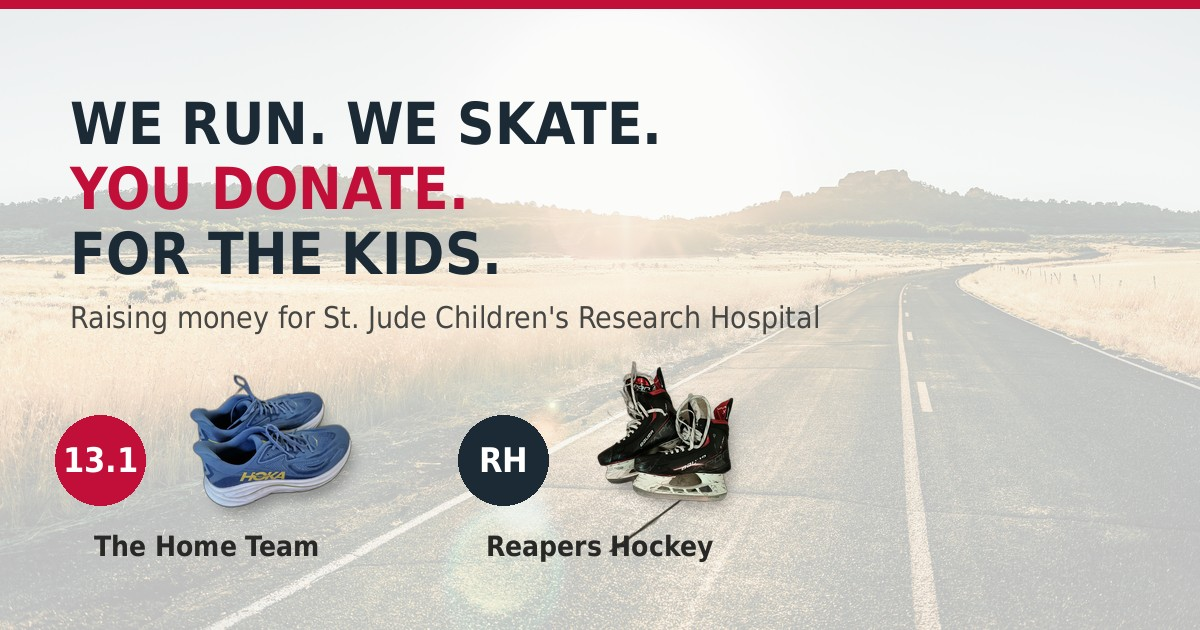
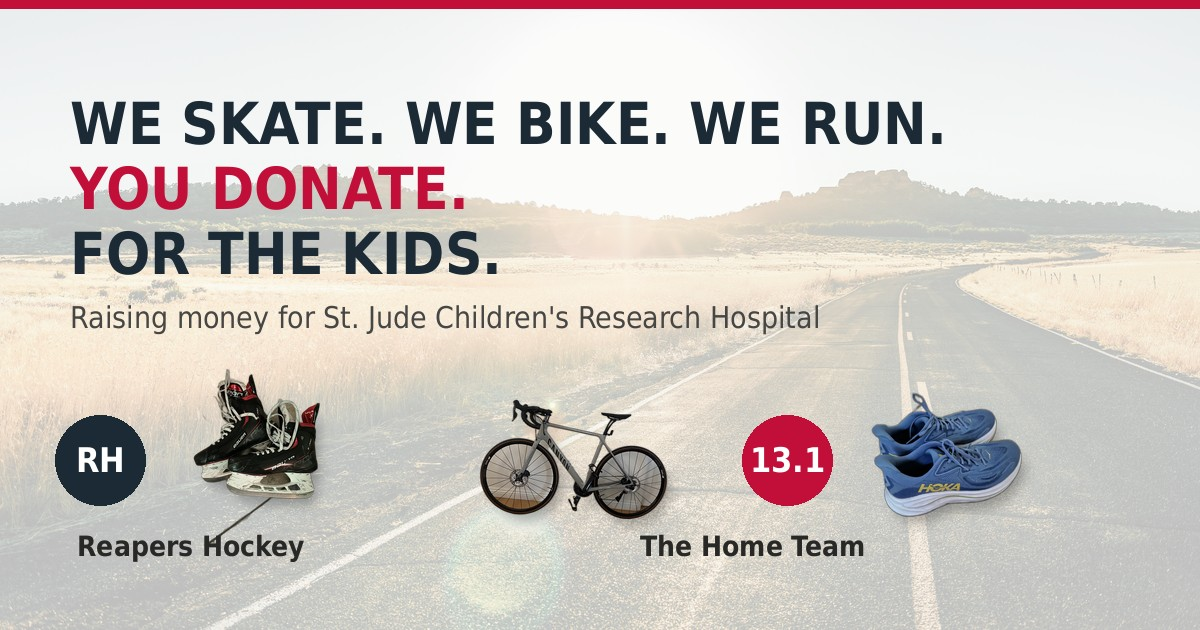
Add files via upload

diff --git a/index.html b/index.html
@@ -284,6 +284,25 @@
     text-align: center;
   }
 
+  .closing {
+    padding: 48px 0 8px;
+    text-align: center;
+  }
+  .closing p {
+    font-size: 18px;
+    color: var(--steel);
+    max-width: 46ch;
+    margin: 0 auto;
+  }
+  .closing .tagline {
+    display: block;
+    margin-top: 6px;
+    font-family: 'Bebas Neue', sans-serif;
+    font-size: 26px;
+    letter-spacing: 0.03em;
+    color: var(--accent);
+  }
+
   @media (max-width: 520px) {
     .avenue, .avenue.large-photo { grid-template-columns: 1fr; }
     .photo { width: 100%; height: 160px; }
@@ -332,6 +351,67 @@
     background: var(--accent);
     border-radius: 999px;
   }
+
+  .equation-row {
+    display: flex;
+    align-items: baseline;
+    flex-wrap: wrap;
+    gap: 10px 14px;
+    margin-bottom: 14px;
+  }
+  .eq-part { display: flex; flex-direction: column; }
+  .eq-value {
+    font-family: 'Bebas Neue', sans-serif;
+    font-size: 26px;
+    color: var(--steel);
+    letter-spacing: 0.02em;
+    line-height: 1;
+  }
+  .eq-label {
+    font-size: 12px;
+    color: var(--muted);
+    text-transform: uppercase;
+    letter-spacing: 0.05em;
+    margin-top: 3px;
+  }
+  .eq-op {
+    font-family: 'Bebas Neue', sans-serif;
+    font-size: 22px;
+    color: var(--steel-mid);
+  }
+  .eq-total .eq-value { color: var(--accent); font-size: 30px; }
+
+  .mile-tracker {
+    grid-column: 1 / -1;
+    margin-top: 18px;
+    padding-top: 16px;
+    border-top: 1px dashed var(--line);
+  }
+  .mile-tracker-label {
+    text-transform: uppercase;
+    letter-spacing: 0.06em;
+    font-size: 12px;
+    color: var(--steel-mid);
+    font-weight: 700;
+    margin: 0 0 6px;
+  }
+  .mile-tracker-numbers {
+    display: flex;
+    align-items: baseline;
+    gap: 10px;
+    flex-wrap: wrap;
+  }
+  .mile-tracker-miles {
+    font-family: 'Bebas Neue', sans-serif;
+    font-size: 30px;
+    color: var(--steel);
+    letter-spacing: 0.02em;
+  }
+  .mile-tracker-miles span { color: var(--accent); }
+  .mile-tracker-detail {
+    font-size: 13px;
+    color: var(--muted);
+  }
 </style>
 </head>
 <body>
@@ -339,17 +419,33 @@
   <div class="wrap">
     <header class="hero">
       <h1>Raising Money for <span style="color: var(--accent);">St. Jude</span></h1>
-      <p class="sub">This January, a half marathon. All season, a hockey team. Same cause: St. Jude — for kids who need St. Jude the most.</p>
+      <p class="sub">This January, a half marathon. All season, a hockey team. Every mile logged. Same cause: St. Jude — for kids who need St. Jude the most.</p>
     </header>
 
-    <section class="progress-section">
+    <section class="progress-section" id="progress-section" data-donations="2425" data-goal="25000">
+      <div class="equation-row" id="equation-row">
+        <span class="eq-part">
+          <span class="eq-value" id="eq-you">$2,425</span>
+          <span class="eq-label">You</span>
+        </span>
+        <span class="eq-op">+</span>
+        <span class="eq-part">
+          <span class="eq-value" id="eq-hometeam">$0</span>
+          <span class="eq-label">Home Team miles</span>
+        </span>
+        <span class="eq-op">=</span>
+        <span class="eq-part eq-total">
+          <span class="eq-value" id="eq-total">$2,425</span>
+          <span class="eq-label">to St. Jude</span>
+        </span>
+      </div>
       <div class="progress-numbers">
-        <span class="progress-raised">$2,425 <span>raised</span></span>
-        <span class="progress-goal">of $25,000 goal</span>
+        <span class="progress-goal" id="progress-goal">of $25,000 goal</span>
       </div>
       <div class="progress-track">
-        <div class="progress-fill" style="width: 9.7%;"></div>
+        <div class="progress-fill" id="progress-fill" style="width: 9.7%;"></div>
       </div>
+      <a class="button" href="http://fundraising.stjude.org/goto/Serven" style="margin-top: 20px; display: inline-block;">Donate to St. Jude</a>
     </section>
 
     <section class="avenues">
@@ -367,6 +463,13 @@
           <p class="blurb">It started with a deal: we run a half marathon together, we take on a cycling event together. That promise grew into something bigger — now we're all in for St. Jude.</p>
           <p class="members">Serven · Eunice · Dylan · Taylor</p>
           <a class="button small" href="http://fundraising.stjude.org/goto/Serven">Donate to St. Jude</a>
+        </div>
+        <div class="mile-tracker" id="mile-tracker" data-miles="0" data-rate="0.25">
+          <p class="mile-tracker-label">Every mile counts</p>
+          <div class="mile-tracker-numbers">
+            <span class="mile-tracker-miles" id="mile-tracker-miles"><span>0</span> miles</span>
+            <span class="mile-tracker-detail" id="mile-tracker-detail">Our training miles also matter. The Home Team is personally funding $0.25 for every mile we walk, run, and bike toward St. Jude.</span>
+          </div>
         </div>
       </div>
 
@@ -435,10 +538,11 @@
           </div>
         </div>
       </div>
+    </section>
 
-      <div class="avenue pending">
-        + a third avenue is on the way — check back soon.
-      </div>
+    <section class="closing">
+      <p>Thank you for reading, for sharing, for showing up for these kids.<span class="tagline">For the kids.</span></p>
+      <p style="font-size: 15px; color: var(--muted); margin-top: 18px;">Want to get involved beyond a donation? Reach out to any of us — we'd love the help.</p>
     </section>
 
     <footer>
@@ -463,6 +567,42 @@
       target.style.borderRadius = '8px';
       target.scrollIntoView({ behavior: 'smooth', block: 'center' });
     }
+  }
+
+  // Combine donation total + mile-funding into the top progress bar.
+  // To update: change data-donations on #progress-section and
+  // data-miles on #mile-tracker. Everything below recalculates automatically.
+  const progressSection = document.getElementById('progress-section');
+  const mileTracker = document.getElementById('mile-tracker');
+
+  const donations = parseFloat(progressSection.dataset.donations || '0');
+  const goal = parseFloat(progressSection.dataset.goal || '0');
+  const miles = parseFloat(mileTracker.dataset.miles || '0');
+  const rate = parseFloat(mileTracker.dataset.rate || '0');
+  const mileFunded = miles * rate;
+  const combinedTotal = donations + mileFunded;
+
+  const fmt = n => '$' + n.toLocaleString('en-US', { maximumFractionDigits: 0 });
+
+  document.getElementById('eq-you').textContent = fmt(donations);
+  document.getElementById('eq-hometeam').textContent = fmt(mileFunded);
+  document.getElementById('eq-total').textContent = fmt(combinedTotal);
+  document.getElementById('progress-fill').style.width =
+    Math.min(100, (combinedTotal / goal) * 100) + '%';
+
+  document.getElementById('mile-tracker-miles').innerHTML =
+    '<span>' + miles.toLocaleString('en-US') + '</span> miles';
+
+  const detailEl = document.getElementById('mile-tracker-detail');
+  if (miles > 0) {
+    detailEl.textContent =
+      'Our training miles also matter. The Home Team is personally funding $' + rate.toFixed(2) +
+      ' for every mile we walk, run, and bike — ' + fmt(mileFunded) +
+      ' funded so far, already counted in the total above.';
+  } else {
+    detailEl.textContent =
+      'Our training miles also matter. The Home Team is personally funding $' + rate.toFixed(2) +
+      ' for every mile we walk, run, and bike toward St. Jude.';
   }
 </script>
 